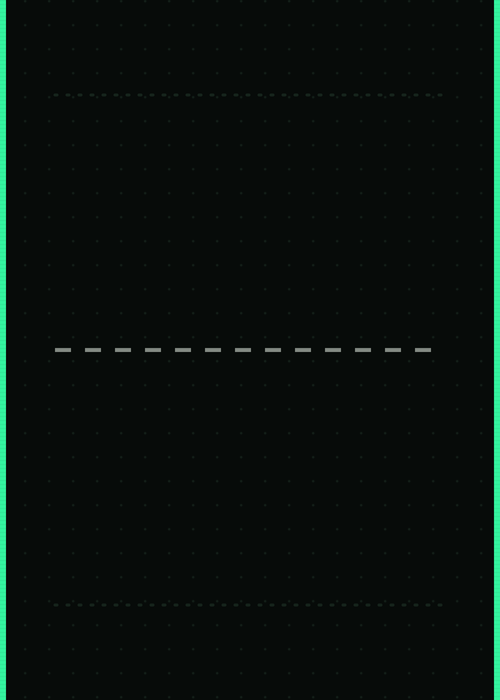
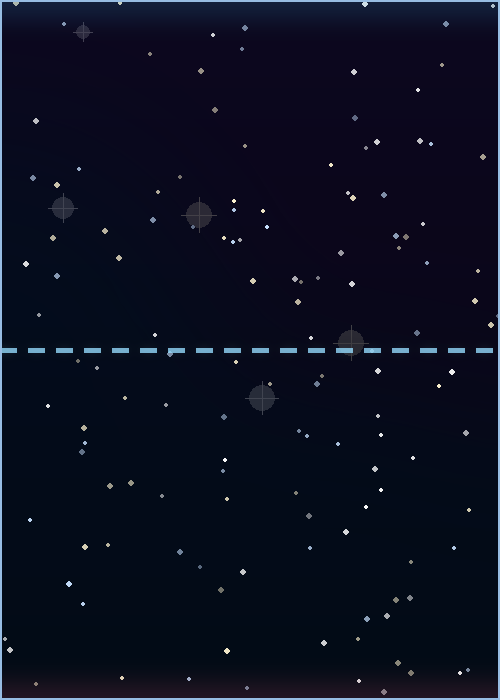
Refine ball bounce handling and speed
Consolidates paddle collision into a single `checkBounce()` path for both player and bot, adds a dedicated `hasBouncedOffPaddle` guard to prevent repeated bounces/score ticks while overlapping a paddle, and resets that state on re-init. It also increases the ball’s base speed (`2` -> `4`) while keeping the existing level-based cap. Includes minor cleanup (removed dead commented code/empty constructor) and related Greenfoot metadata/assets updates.

diff --git a/Ball.java b/Ball.java
@@ -18,6 +18,7 @@ public class Ball extends Actor {
 
     private boolean hasBouncedHorizontally;
     private boolean hasBouncedVertically;
+    private boolean hasBouncedOffPaddle;
     private int delay;
 
     /**
@@ -45,10 +46,10 @@ public class Ball extends Actor {
             delay--;
         } else {
             move(getSpeed());
-            checkBounceOffPlayer();
+
+            checkBounce();
             checkBounceOffWalls();
             checkBounceOffCeiling();
-            checkBounceOffBot();
 
             checkRestart();
         }
@@ -104,29 +105,23 @@ public class Ball extends Actor {
         }
     }
 
-    private void checkBounceOffPlayer() {
-        if (isTouching(Player.class)) {
-            if (!hasBouncedHorizontally) {
-                PingWorld pingWorld = (PingWorld) this.getWorld();
-                pingWorld.getScoreManager().incrementScore(); // TODO: Add score cooldown
+    private void checkBounce(){
+        if (!isTouching(Player.class) && !isTouching(Bot.class)) {
+            hasBouncedOffPaddle = false;
+            return;
+        }
+        if (hasBouncedOffPaddle) {
+            return;
+        }
 
-                revertVertically();
-                SoundManager.playPaddleHit();
-            }
-        } else {
-            hasBouncedHorizontally = false;
+        if(isTouching(Player.class)){
+            PingWorld pingWorld = (PingWorld) this.getWorld();
+            pingWorld.getScoreManager().incrementScore(); // TODO: Add score cooldown
         }
-    }
-    
-       private void checkBounceOffBot() {
-        if (isTouching(Bot.class)) {
-            if (!hasBouncedHorizontally) {
-                revertVertically();
-                SoundManager.playPaddleHit();
-            }
-        } else {
-            hasBouncedHorizontally = false;
-        }
+
+        this.revertVertically();
+        SoundManager.playPaddleHit();
+        hasBouncedOffPaddle = true;
     }
 
     /**
@@ -164,7 +159,7 @@ public class Ball extends Actor {
      */
     private int getSpeed() {
         PingWorld pingWorld = (PingWorld) this.getWorld();
-        int speed = 2 + pingWorld.getScoreManager().getGameLevel()/5;
+        int speed = 4 + pingWorld.getScoreManager().getGameLevel()/5;
         return Math.min(speed, 10);
     }
 
@@ -175,6 +170,7 @@ public class Ball extends Actor {
         delay = DELAY_TIME;
         hasBouncedHorizontally = false;
         hasBouncedVertically = false;
+        hasBouncedOffPaddle = false;
         setRotation(Greenfoot.getRandomNumber(STARTING_ANGLE_WIDTH) + STARTING_ANGLE_WIDTH / 2);
     }
 

diff --git a/Paddle.java b/Paddle.java
@@ -24,14 +24,6 @@ public class Paddle extends Actor {
         createImage(color);
     }
 
-//    /**
-//     * Act - do whatever the Paddle wants to do. This method is called whenever
-//     * the 'Act' or 'Run' button gets pressed in the environment.
-//     */
-//    public void act() {
-//        tryChangeDirection();
-//        setLocation(getX() + dx, getY());
-//    }
 
     /**
      * Will rotate the paddle 180 degrees if the paddle is at worlds edge.

diff --git a/Score.java b/Score.java
@@ -4,8 +4,8 @@ import greenfoot.Color;
 public class Score extends TextDisplay {
     public Score() {
         super("Game Level: 0", 24, Color.WHITE);
+        
         // Add Score Event Listener
-
         ScoreEvent.subscribeTo(() -> {
             PingWorld pingWorld = (PingWorld) this.getWorld();
             this.updateGameLevel(pingWorld.getScoreManager().getGameLevel());

diff --git a/ScoreManager.java b/ScoreManager.java
@@ -3,8 +3,6 @@ import events.ScoreEvent;
 public class ScoreManager {
     private int score = 0;
 
-    public ScoreManager() {
-    }
 
     public int getScore() {
         return this.score;
